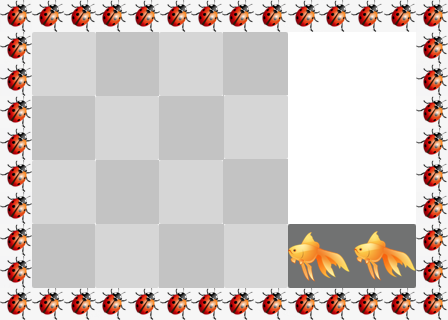
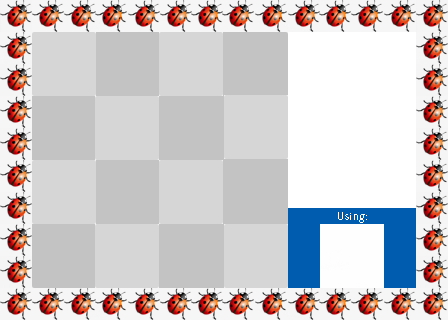
inventory basics added

Changed region(s): [[0.625, 0.625, 0.9375, 0.9062]]

diff --git a/src/game/Inventory.java b/src/game/Inventory.java
@@ -1,5 +1,7 @@
 package game;
 
+import java.util.ArrayList;
+
 import org.newdawn.slick.Color;
 import org.newdawn.slick.Font;
 import org.newdawn.slick.GameContainer;
@@ -7,17 +9,20 @@ import org.newdawn.slick.Graphics;
 import org.newdawn.slick.Image;
 import org.newdawn.slick.Input;
 import org.newdawn.slick.SlickException;
-import org.newdawn.slick.fills.GradientFill;
-import org.newdawn.slick.geom.Rectangle;
 
 public class Inventory {
-	private Font m_font;
-	private int m_width, m_height;
-	private int m_x, m_y;
-	private Rectangle m_rectangle;
-	private GradientFill m_shapeFill;
 	
-	private Collectable[][] m_items;
+	private Font m_font;
+	private int BLOCKSIZE = 64;
+	private int m_width = 7*BLOCKSIZE;
+	private int m_height = 5*BLOCKSIZE;
+	private int m_x = 76, m_y = 140;
+	private Image m_background;
+	private int[] m_textBox = new int[] {m_x + BLOCKSIZE*4 + BLOCKSIZE/2, m_y + BLOCKSIZE/2};
+	private int[] m_usingBox = new int[] {m_x + BLOCKSIZE*5, m_y + BLOCKSIZE*3 + BLOCKSIZE/2};
+	private Collectable m_using = null;
+	
+	private Collectable[] m_items;
 	private int m_pointer = 0;
 	private int m_inputDelta = 0;
 	
@@ -26,20 +31,17 @@ public class Inventory {
 	public Inventory(GameContainer container) throws SlickException {
 		// set up box to display text in
 		m_font = container.getDefaultFont();
-		m_width = 448;
-		m_height = 320;
-		m_x = 78;
-		m_y = 150;
+		m_x = 76;
+		m_y = 140;
 		
-		m_rectangle = new Rectangle(m_x, m_y, m_width, m_height);
-		m_shapeFill = new GradientFill(m_x, m_y, Color.white, // top left corner
-									   m_x + m_width, m_y + m_height, Color.white); // bottom right
+		m_background = new Image("assets/inventoryMenu.png");
 		
 		// set up inventory logic
-		m_items = new Collectable[4][4];
+		m_items = new Collectable[16];
 		
 		// load sprites
 		m_cursor = new Image("assets/redSquare.png");
+		m_cursor.setAlpha((float)0.3);
 	}
 	
 	public void update(GameContainer container, int delta) {
@@ -51,27 +53,110 @@ public class Inventory {
 			m_inputDelta = 200;
         }
         else if (m_inputDelta<0 && input.isKeyDown(Input.KEY_DOWN)) {
-        	if (m_pointer >= 12)
+        	if (m_pointer < 12)
         		m_pointer = m_pointer + 4;
         	m_inputDelta = 200;
         }
         else if (m_inputDelta<0 && input.isKeyDown(Input.KEY_LEFT)) {
-        	if (m_pointer % 4 == 3)
+        	if (m_pointer % 4 != 0)
         		m_pointer--;
         	m_inputDelta = 200;
         }
         else if (m_inputDelta<0 && input.isKeyDown(Input.KEY_RIGHT)) {
-        	if (m_pointer % 4 == 0)
+        	if (m_pointer % 4 != 3)
         		m_pointer++;
         	m_inputDelta = 200;
         }
         if(m_inputDelta<0&&input.isKeyDown(Input.KEY_SPACE)) {
+        	if (m_items[m_pointer] != null)
+        		m_using = m_items[m_pointer];
         	m_inputDelta = 200;
         }	
 	}
 	
-	public void render(Graphics g) {
-		g.fill(m_rectangle, m_shapeFill);
-		g.setColor(Color.black);
+	public void render(Graphics g) throws SlickException{
+		m_background.draw(m_x, m_y);
+		// draw items
+		for (int i=0; i<m_items.length; i++) 
+			if (m_items[i] != null)
+				m_items[i].m_sprite.draw(BLOCKSIZE*(i%4) + 108,
+										 BLOCKSIZE*((int)Math.floor(i/4)) + 172);
+		// draw item text
+		if (m_items[m_pointer] != null) {
+			String itemName = m_items[m_pointer].getItemName();
+			g.setColor(Color.red);
+			g.drawString(itemName, m_textBox[0], m_textBox[1]);
+			ArrayList<String> itemText = wrap(m_items[m_pointer].getItemText(), BLOCKSIZE*2);
+			g.setColor(Color.blue);
+			for (int i=0; i<itemText.size(); i++)
+				g.drawString(itemText.get(i), 
+							 m_textBox[0],
+							 m_textBox[1] + (i+1)*m_font.getLineHeight());
+		}
+		// draw cursor
+		m_cursor.draw(BLOCKSIZE*(m_pointer%4) + 108, 
+					  BLOCKSIZE*((int)Math.floor(m_pointer/4)) + 172);
+		
+		// draw using item
+		if (m_using != null)
+			m_using.m_sprite.draw(m_usingBox[0], m_usingBox[1]);
+
 	}
+	
+	public void addItem(Interactable item) {
+		for (int i=0; i<m_items.length; i++) {
+			if (m_items[i] == null) {
+				m_items[i] = (Collectable)item;
+				break;
+			}
+		}
+	}
+	
+
+	private ArrayList<String> wrap(String text, int width) {
+        ArrayList<String> list = new ArrayList<String>();
+        String str = text;
+        String line = "";
+        
+        //we will go through adding characters, once we hit the max width
+        //we will either split the line at the last space OR split the line
+        //at the given char if no last space exists
+        
+        //while text is not empty
+        int i = 0;
+        int lastSpace = -1;
+        while (i<str.length()) {
+            char c = str.charAt(i);
+            if (Character.isWhitespace(c))
+                lastSpace = i;
+            
+            //time to wrap 
+            if (c=='\n' || m_font.getWidth(line + c) > width) {
+                //if we've hit a space recently, use that
+                int split = lastSpace!=-1 ? lastSpace : i;
+                int splitTrimmed = split;
+                
+                //if we are splitting by space, trim it off for the start of the next line
+                if (lastSpace!=-1 && split<str.length()-1) 
+                   splitTrimmed++;
+                
+                line = str.substring(0, split);
+                str = str.substring(splitTrimmed);
+                
+                //add the line and reset our values
+                list.add(line);
+                line = "";
+                i = 0;
+                lastSpace = -1;
+            } 
+            else {
+                line += c;
+                i++;
+            }
+        }
+        // leftovers
+        if (str.length()!=0)
+            list.add(str);
+        return list;
+    }
 }

diff --git a/src/game/Room.java b/src/game/Room.java
@@ -117,18 +117,23 @@ public class Room extends GamePlayState implements Loadable<Room> {
 
 		Chest chest = new Chest(2*SIZE, 3*SIZE);
 		m_interactables.put(23, chest);
-		m_blocked[2][3] = true;      
+		m_blocked[2][3] = true;		
+		m_objects.put(23, chest);
 
 		int[][] patrolPoints = {{1,1},{1,8},{8,8},{8,1}};
 		m_enemy = new Enemy(this, m_player, 1*SIZE, 1*SIZE, patrolPoints);
 
-		m_objects.put(23, chest);
 
 		ChickenWing chickenWing = new ChickenWing(6*SIZE, 3*SIZE);
 		m_interactables.put(63, chickenWing);
 		m_blocked[6][3] = true;      
-
 		m_objects.put(63, chickenWing);
+		
+		Cigarette cigarette = new Cigarette(8*SIZE, 4*SIZE);
+		m_interactables.put(84, cigarette);
+		m_blocked[8][4] = true;
+		m_objects.put(84, cigarette);
+		
 
 
 		// setup menu
@@ -212,7 +217,7 @@ public class Room extends GamePlayState implements Loadable<Room> {
 				//key = 23;
 				if (i.getType() == GameObject.Types.CHEST) {
 					if (loc[0] == m_objects.get(key).getX()/SIZE && 
-							loc[1] == m_objects.get(key).getY()/SIZE) {
+						loc[1] == m_objects.get(key).getY()/SIZE) {
 						m_dialogueNum = 1;
 						m_inDialogue = true;
 					}
@@ -222,16 +227,27 @@ public class Room extends GamePlayState implements Loadable<Room> {
 				//key = 63;
 				if (i.getType() == GameObject.Types.CHICKEN_WING) {
 					if (loc[0] == m_objects.get(key).getX()/SIZE &&
-							loc[1] == m_objects.get(key).getY()/SIZE) {
-						m_interactables.remove(key);
-						m_blocked[loc[0]][loc[1]] = false;
-						m_objects.remove(key);
-					}
+						loc[1] == m_objects.get(key).getY()/SIZE)
+						playerPickUp(key, loc[0], loc[1]);
+				}
+				
+				//cigarette
+				//key = 84;
+				if (i.getType() == GameObject.Types.CIGARETTE) {
+					if (loc[0] == m_objects.get(key).getX()/SIZE &&
+						loc[1] == m_objects.get(key).getY()/SIZE) 
+						playerPickUp(key, loc[0], loc[1]);
 				}
 				return i.fireAction();
 			}
 		}
 		return null;
+	}
+	
+	public void playerPickUp(int key, int xLoc, int yLoc) {
+		m_interactables.remove(key);
+		m_blocked[xLoc][yLoc] = false;
+		m_objects.remove(key);	
 	}
 
 
@@ -328,8 +344,8 @@ public class Room extends GamePlayState implements Loadable<Room> {
 
 	@Override
 	public Room loadFromXML(Node n, GameContainer c, StateManager g) throws SlickException {
-		this.m_interactables = new HashMap<>();
-		this.m_objects = new HashMap<>();
+		this.m_interactables = new HashMap<Integer, Interactable>();
+		this.m_objects = new HashMap<Integer, GameObject>();
 		NodeList children = n.getChildNodes();
 		for(int i = 0; i<children.getLength(); i++) {
 			Node child = children.item(i);

diff --git a/src/game/Cigarette.java b/src/game/Cigarette.java
@@ -1,0 +1,48 @@
+package game;
+
+import javax.xml.stream.XMLStreamException;
+import javax.xml.stream.XMLStreamWriter;
+
+import org.newdawn.slick.Image;
+import org.newdawn.slick.SlickException;
+
+public class Cigarette extends Collectable implements Interactable {
+	
+	public Cigarette(int xLoc, int yLoc) throws SlickException {
+		m_x = xLoc;
+		m_y = yLoc;
+		m_sprite = new Image("assets/cigarette.png");
+	}
+
+	@Override
+	public Interactable fireAction() {
+		return this;
+	}
+
+	@Override
+	public void writeToXML(XMLStreamWriter writer) throws XMLStreamException {
+		// TODO Auto-generated method stub
+	}
+
+	@Override
+	public String getItemName() {
+		return "Cigarette";
+	}
+
+	@Override
+	public String getItemText() {
+		return "A smokey little thing... It might one day save your life";
+	}
+
+	@Override
+	public int[] getSquare() {
+		int[] loc = {(int)m_x/SIZE, (int)m_y/SIZE};
+		return loc;
+	}
+
+	@Override
+	public Types getType() {
+		return Types.CIGARETTE;
+	}
+
+}

diff --git a/src/game/ChickenWing.java b/src/game/ChickenWing.java
@@ -6,7 +6,7 @@ import javax.xml.stream.XMLStreamWriter;
 import org.newdawn.slick.Image;
 import org.newdawn.slick.SlickException;
 
-public class ChickenWing extends GameObject implements Collectable, Interactable{
+public class ChickenWing extends Collectable implements Interactable{
 	
 	public ChickenWing(int xLoc, int yLoc) throws SlickException {
 		m_x = xLoc;
@@ -35,6 +35,14 @@ public class ChickenWing extends GameObject implements Collectable, Interactable
 		writer.writeAttribute("m_x", String.valueOf(this.m_x));
 		writer.writeAttribute("m_y", String.valueOf(this.m_y));
 		writer.writeEndElement();	
+	}
+	@Override
+	public String getItemName() {
+		return "Chicken Wing";
+	}
+	@Override
+	public String getItemText() {
+		return "This is a chicken wing that looks shockingly like a horse with one leg.";
 	}
 	
 }

diff --git a/src/game/Player.java b/src/game/Player.java
@@ -98,7 +98,9 @@ public class Player extends MovingObject{
         	int currentY = (int) (m_y + (SIZE/2))/SIZE;
         	int[] dirOffset = Direction.getDirOffsets(m_dir);
         	int[] squareFacing = {currentX + dirOffset[0], currentY + dirOffset[1]};
-        	m_room.interact(squareFacing);
+        	Interactable interactable = m_room.interact(squareFacing);
+        	if (interactable instanceof Collectable)
+        		m_inventory.addItem(interactable);
         	m_inputDelta=500;
         }
 

diff --git a/src/game/Collectable.java b/src/game/Collectable.java
@@ -1,5 +1,6 @@
 package game;
 
-public interface Collectable {
-	
+public abstract class Collectable extends GameObject {
+	public abstract String getItemName();
+	public abstract String getItemText();
 }

diff --git a/src/game/GameObject.java b/src/game/GameObject.java
@@ -17,4 +17,9 @@ public abstract class GameObject {
 	public abstract int[] getSquare();
 	public abstract Types getType();
 	
+	public enum Types {
+		CHEST,
+		CHICKEN_WING,
+		CIGARETTE,
+	}
 }
